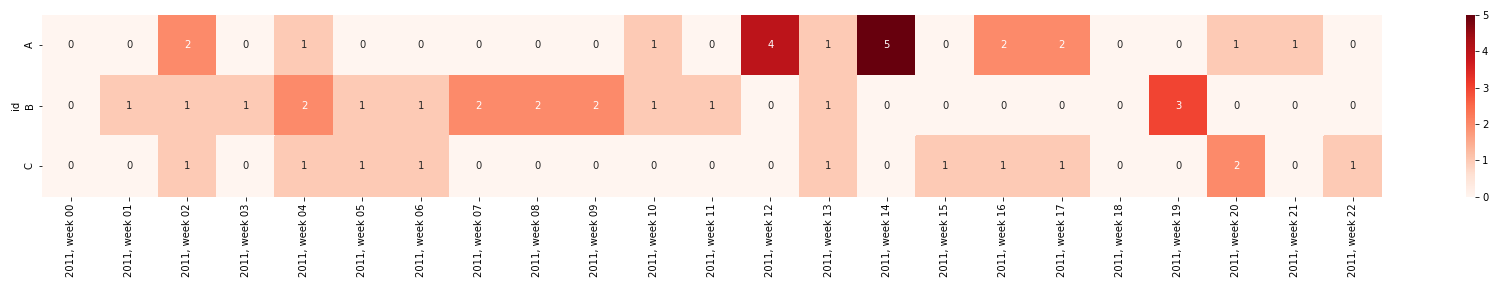
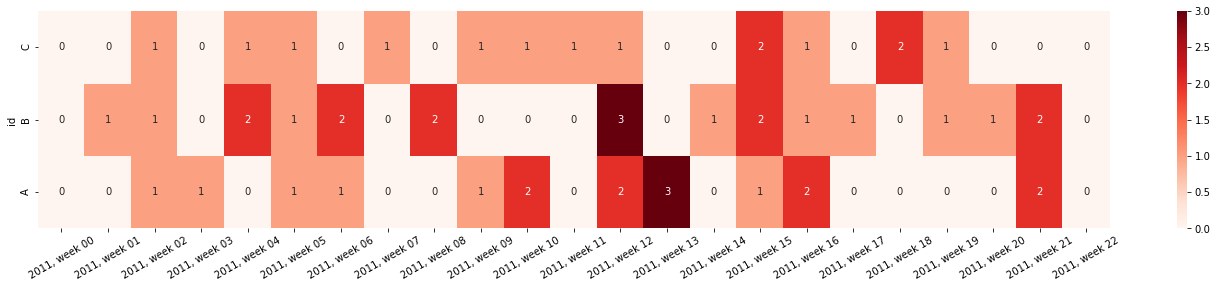
Fix bug in incident heatmap, T815
Summary:
The bug was that seaborn set the axes to (2.5, 0.5) even though it should be (0, 3) or (3, 0)
I put a round/ceil in there
I also changed the unit tests to not be so ridiculously ugly. They actually look like normal plots now.

Test Plan:
it works on the matrix.

EDIT: Tested it on my laptop (windows), unit tests succeeded there as well

Reviewers: daanvanes, rutger

Reviewed By: rutger

Differential Revision: https://dev.ynformed.nl/D1204

diff --git a/sam/visualization/incident_heatmap.py b/sam/visualization/incident_heatmap.py
@@ -1,4 +1,5 @@
 import pandas as pd
+from math import floor, ceil
 
 
 def plot_incident_heatmap(df, resolution='row', row_column='id', value_column='incident',
@@ -45,7 +46,7 @@ def plot_incident_heatmap(df, resolution='row', row_column='id', value_column='i
 
     Examples
     --------
-    >>> from sam.visualization import incident_heatmap
+    >>> from sam.visualization import plot_incident_heatmap
     >>> import pandas as pd
     >>> import numpy as np
     >>> # Initialize a random dataframe
@@ -87,6 +88,14 @@ def plot_incident_heatmap(df, resolution='row', row_column='id', value_column='i
     # Initialize heatmap
     ax = sns.heatmap(df_grouped, **kwargs)
     ax.set_xticklabels(ax.get_xticklabels(), rotation=xlabel_rotation)
+
+    # Set y limits. On some versions/platforms of seaborn, these are set at 0.5
+    # instead of 0, so we round up the higher limit, and round down the lower limit.
+    # If the limits are correctly set as integers, these lines have no effect.
+    # It is totally possible for ax.get_ylim() to return (high, low), in which
+    # case we need to switch them with `sorted` to obtain (low, high) instead.
+    y_low, y_high = sorted(ax.get_ylim())
+    ax.set_ylim(floor(y_low), ceil(y_high))
 
     # If desired, add custom date format to the x-axis
     if datefmt:

diff --git a/sam/visualization/tests/test_incident_heatmap.py b/sam/visualization/tests/test_incident_heatmap.py
@@ -3,6 +3,7 @@ import pytest
 from sam.visualization import plot_incident_heatmap
 import pandas as pd
 import numpy as np
+import seaborn as sns
 
 
 class TestIncidentHeatmap(unittest.TestCase):
@@ -15,7 +16,8 @@ class TestIncidentHeatmap(unittest.TestCase):
                           index=range, columns=['incident', 'id'])
 
         # Create the heatmap
-        ax = plot_incident_heatmap(ts, resolution='W', annot=True, cmap='Reds', figsize=(10, 18))
+        ax = plot_incident_heatmap(ts, resolution='W', annot=True, cmap='Reds',
+                                   figsize=(15, 8), datefmt="%Y-%m-%d")
         return ax.get_figure()
 
     @pytest.mark.mpl_image_compare(tolerance=20)
@@ -26,8 +28,9 @@ class TestIncidentHeatmap(unittest.TestCase):
                           index=range, columns=['incident', 'id'])
 
         # Create the heatmap
-        ax = plot_incident_heatmap(ts, resolution='row', normalize=True,
-                                   datefmt='%Y-%m-%d', figsize=(10, 14))
+        pal = sns.light_palette("navy", reverse=True)
+        ax = plot_incident_heatmap(ts, resolution='row', normalize=True, cmap=pal,
+                                   datefmt='%Y-%m-%d', figsize=(15, 9))
         return ax.get_figure()
 
 
